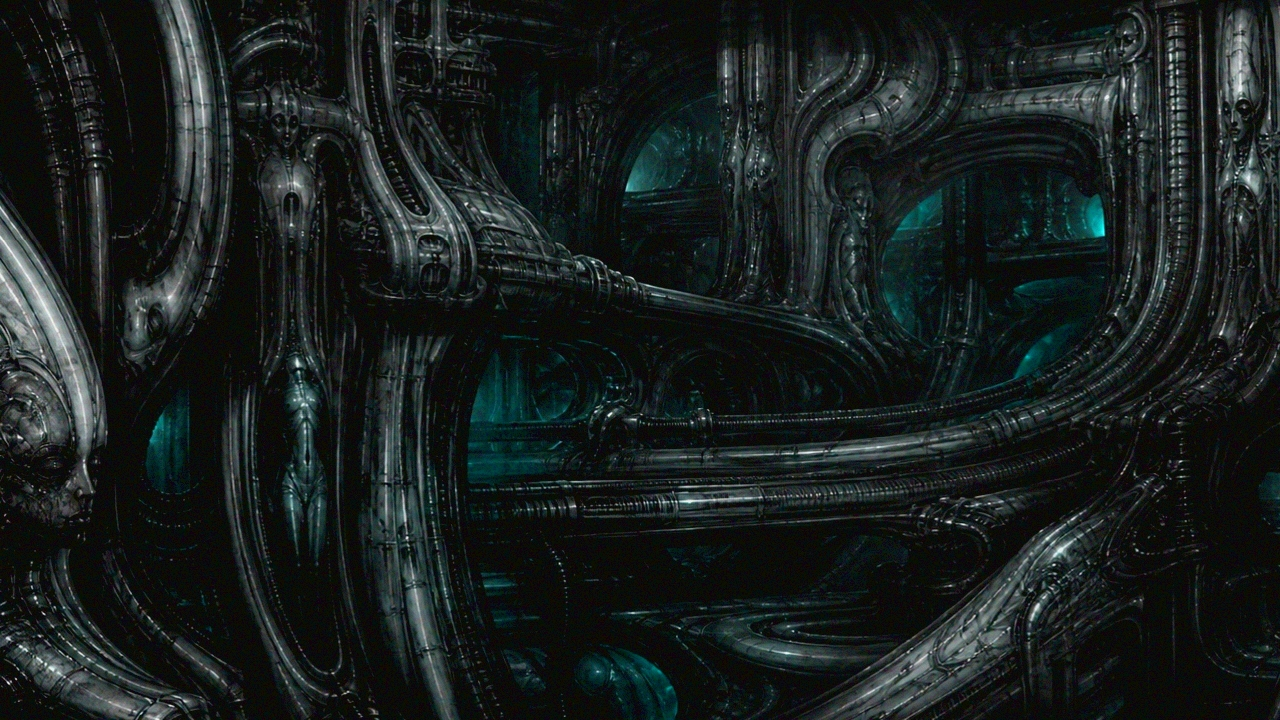
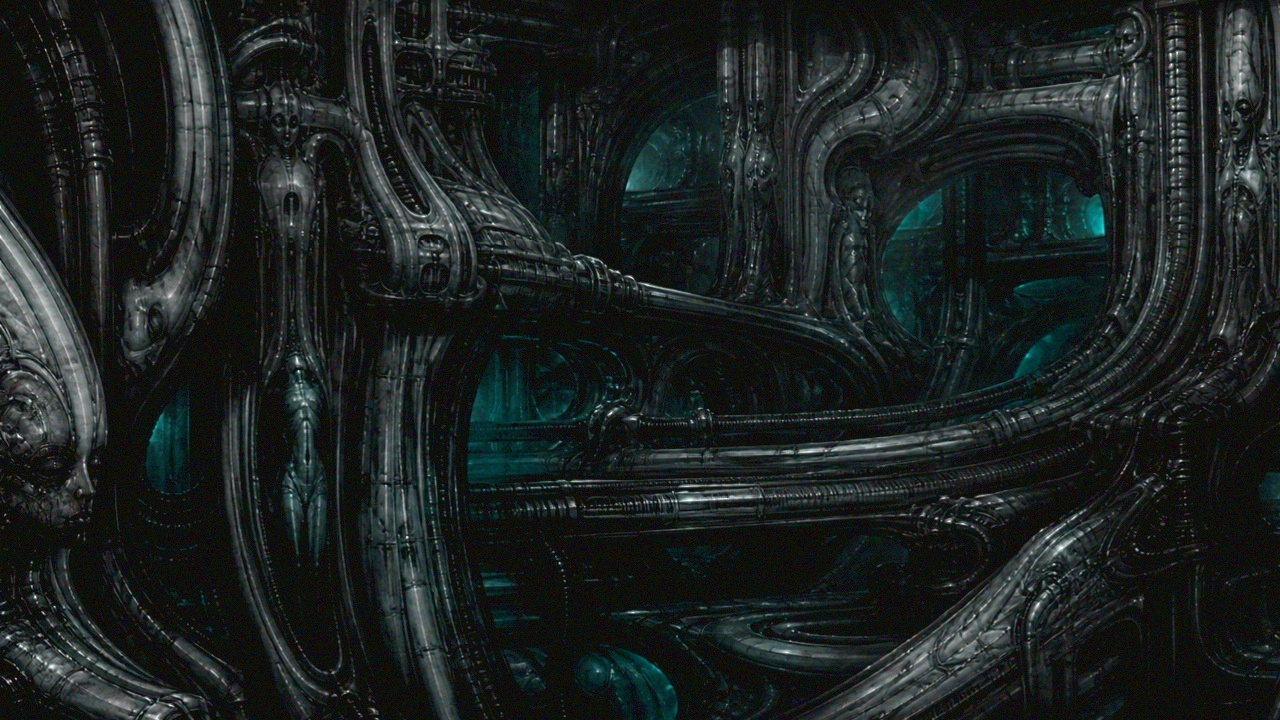
Apply top-lit bump treatment and gamma 1.20 to backgrounds

diff --git a/STATUS.md b/STATUS.md
@@ -4,6 +4,13 @@
 # XENO/KOI: BIOMECHANICAL EDITION - STATUS REPORT
 **Last updated: 20 October 2026.** This is a development handoff for the local source, not a release or deployment record. Code in `src/` defines behavior; the wiki in `docs/` explains the rules. See `AGENTS.md` for contributor guardrails and `docs/errata.md` for known issues.
 
+## Background artwork update — 20 October 2026
+
+- Baked the approved TOP-light, Medium 4.0 bump effect into the seven 1280×720 backgrounds: Harvest, Hole, Arctic, Castle, City, Face, and Realm.
+- Applied final brightening gamma 1.20 (`output = input^(1/1.20)`) from the pre-gamma bumped images, replacing the stronger 1.40 trial.
+- Verified all seven JPEGs decode and retain 1280×720 dimensions; `assets/deus.png` matches HEAD byte-for-byte. No game code, rules, card artwork, or shaders changed. Local preview/scratch outputs are excluded from the PR.
+- Remaining verification: maintainer will test the backgrounds in-game and report back. Earlier UI work and its checks are recorded below; no new graphical game build was tested for this artwork update.
+
 ## Status Summary
 ## Latest completed work
 
